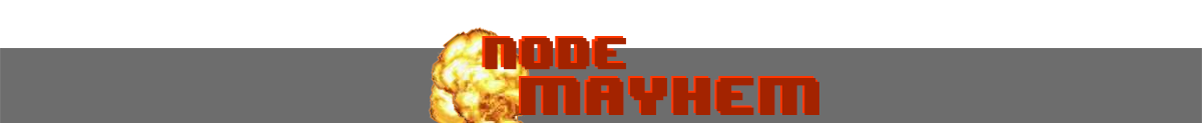
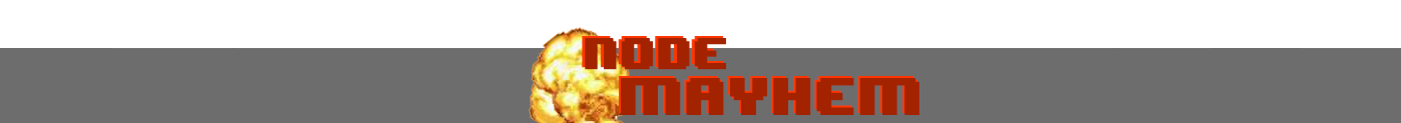
hello commit

Changed region(s): [[0.3386, 0.2195, 0.708, 1.0]]

diff --git a/public/css/game.css b/public/css/game.css
@@ -53,13 +53,19 @@ body:before
     -ms-box-align: center;
 }
 
+.wrapper #score {
+    width: 200px;
+    height: 600px;
+    background-color: #a32300;
+}
+
 #screen {
     background-image: url('/img/title.png');
     background-repeat: no-repeat;
     background-position: top;
     padding-top: 73px;
     height: 653px;
-    width: 1200px;
+    width: 1400px;
     
     /* flexbox, por favor */
     display: -webkit-box;
@@ -129,7 +135,7 @@ footer h3 {
 
 #primer {
     background-color: #6d6d6d;
-    width: 1200px;
+    width: 1400px;
     height: 603px;
 }
 

diff --git a/server.js b/server.js
@@ -53,7 +53,7 @@ io.on('connection', function(socket) {
     if(playerInactiveTimeout) {
       clearTimeout(playerInactiveTimeout);
     }
-    playerInactiveTimeout = setTimeout(removeInactivePlayer, 20000);
+    playerInactiveTimeout = setTimeout(removeInactivePlayer, 60000);
   }
 
   function removeInactivePlayer() {
